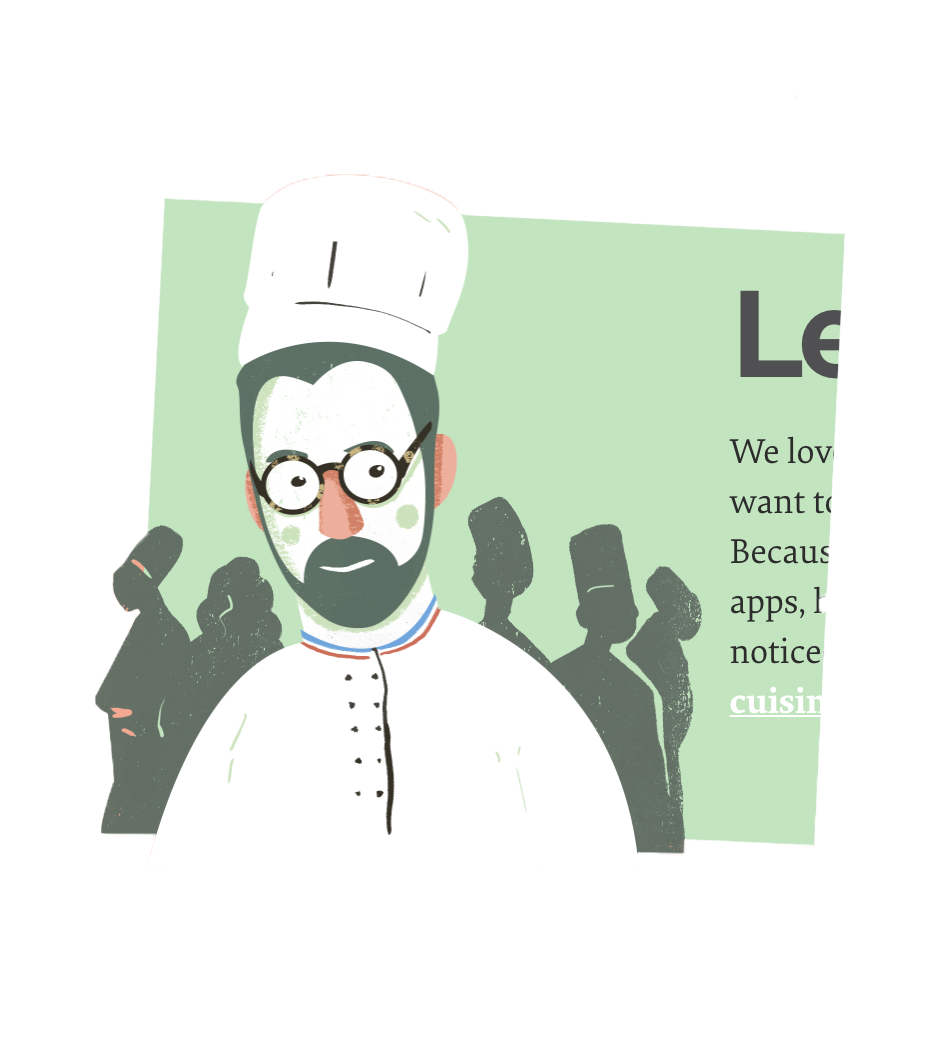
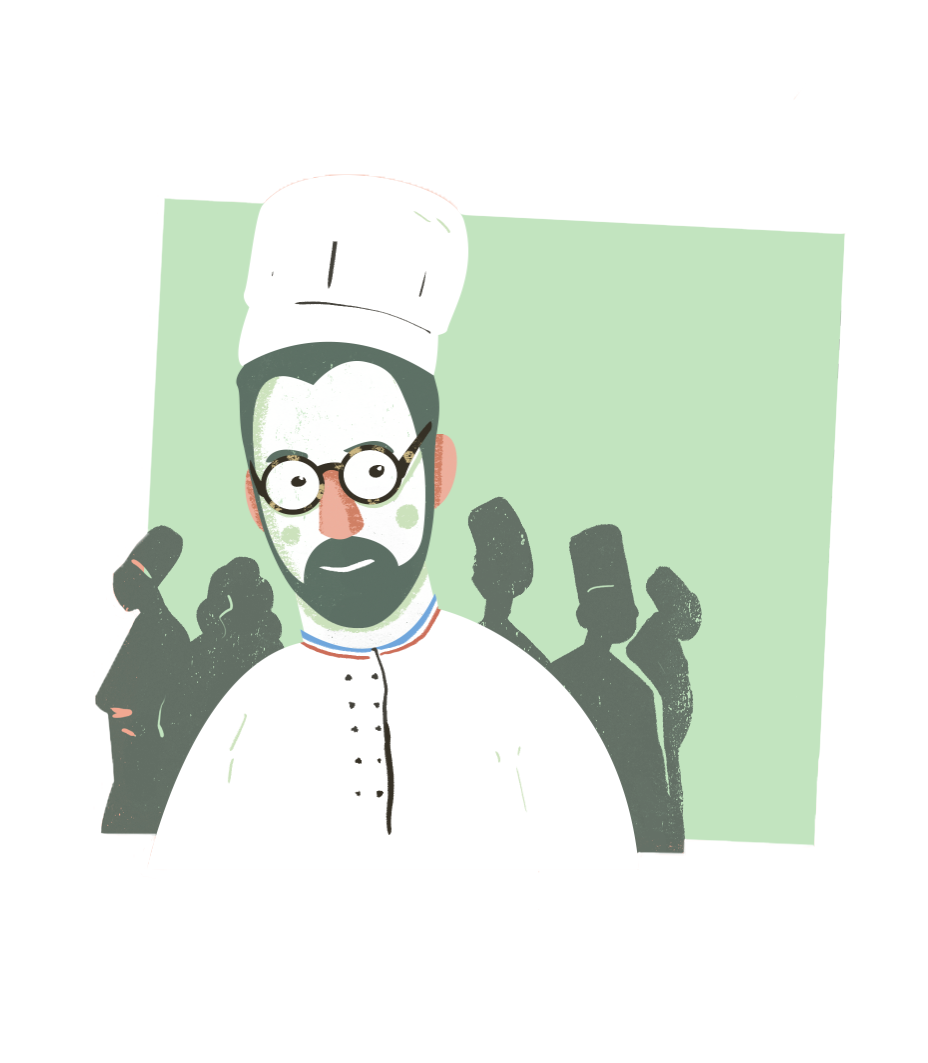
website replication
updates

diff --git a/index.html b/index.html
@@ -18,17 +18,57 @@
 </head>
 
 <body>
-  <section>
-	  <h1>Only the French can cook</h1>
-	  <h2>right?</h2>
-	  <p>Is that why <strong>Stéréosuper and its tight group of Frenchies</strong> are so good at whipping up awesome visual identities and designing kick-ass sites and apps? Lucky for you, Stéréosuper goes all American dream and opens an office in Brooklyn. <a href="#">Want to talk about it?</a></p>
+  <header class="page-header">
+  <a href="#">  
+  <img src="images/stereosuper-logo.png" alt="logo" class="logo">
+  <img src="images/frog.png" alt="frog" class="frog-icon">
+  </header>
+  <section class="page-intro">
+	  <h1 class="title">Only the<br> French can<br> cook</h1>
+	  <h2 class="title-remark">(right?)</h2>
+	  <div class="header-image">
+	  <img src="images/header.png" alt="frog-soup">
+	  </div>
+	  <p>Is that why <strong>Stéréosuper and its tight group of Frenchies</strong> are so good at whipping up awesome visual identities and designing kick-ass sites and apps? Lucky for you, Stéréosuper goes all American dream and opens an office in Brooklyn. <a href="#" class="about">Want to talk about it?</a></p>
   </section>
-  <section>
+  <section class="page-section">
+  	<article class="about">
+  	<img src="images/la-recipe.png" alt="recipe" class="recipe">
+    </article>
+    <article class="about">
+    <img src="images/ingredients.png" alt="ingredients" class="ingredients">
+    </article>
+    <article class="about">
+    <img src="images/la-way.png" alt="la-way" class="la-way">
+    </article>
+    <article class="about">
+    <p>All our dishes are homemade with the best locally grown organic products. No animal was ever harmed in our kitchen. We like gluten, though. Sorry. <a href="#">Watch French TV legend Maïté cook frog legs</a></p>
+    <img src="images/viola.png" alt="viola" class="viola">
+    </article>
+  <section class="page-section">
   	<p>#workwithfrenchies</p>
   	<p>FR / US </p>
   </section>
-  <section>
-  <p>All our dishes are homemade with the best locally grown organic products. No animal was ever harmed in our kitchen. We like gluten, though. Sorry. <a href="#"> Watch French TV legend Maïté cook frog legs</a></p>
+  <section class="reasons-why">
+  	<div class="cleafix">
+  	<article class="reason">
+  	<img src="images/reason-1.png" alt="reason1">
+    </article>
+    <article class="reason">
+    <img src="images/reason-2.png" alt="reason2">
+    </article>
+    <article class="reason">
+    <img src="images/reason-3.png" alt="reason3">
+    </article>
+    <article class="reason">
+    <img src="images/reason-4.png" alt="reason4">
+    </article>
+    </div>
+    </section>
+  <section class="page-section">
+  	  <h2 class="lets-talk">Let's talk</h2>
+  	  <p>All our dishes are homemade with the best locally grown organic products. No animal was ever harmed in our kitchen. We like gluten, though. Sorry. <a href="#"> Watch French TV legend Maïté cook frog legs</a></p>
+  <img src="images/chef.png" alt="chef" class="chef-image">
   </section>
 
   <script src="js/vendor/modernizr-3.6.0.min.js"></script>

diff --git a/css/main.css b/css/main.css
@@ -97,9 +97,111 @@ textarea {
    Author's custom styles
    ========================================================================== */
 
+/* Main Concent */
+
+html {
+        box-sizing: border-box;
+    }
+    *, *:before, *:after {
+        box-sizing: inherit;
+    }
+body {
+    background-color: #f2a891;
+    padding-top: 4em;
+}
+h1{
+    color: #505052;
+}
+h2{
+    color: #505052;
+}
+p {
+    color: #505052;
+    max-width: 750px;
+    margin-left: 50%;
+    font-size: 20px;
+}
+
+a {
+    text-decoration: none;
+    color: white;
+}
+/* Main Nav */
+
+.logo {
+    position: fixed;
+    top: -10%;
+    left: 2%;
+    max-width: 30%;
+    padding: 0;
+}
+.frog-icon {
+    position: fixed;
+    top: -1%;
+    right: 2%;
+    max-width: 15%;
+    padding: 0;
+}
+
+/* Intro Section */
+
+ .title {
+    position:absolute;
+    left: 0; 
+    width: 100%;
+    margin-left:50%;
+    font-size : 90px;
+    font-weight: bolder;
+    font-family: sans-serif; 
+    top: 200px; 
+ }
+ .title-remark {
+    position:absolute;
+    left: 0; 
+    width: 100%;
+    font-size: 20px;
+    font-family: sans-serif;
+    color: white;
+    margin-left: 58%;
+    top: 365px;
+ }
+.header-image { 
+   position: relative; 
+   width: 100%; 
+   z-index: -10;
+   margin-left: 5%;
+   }
 
 
+ /* About Section */
+.recipe {
+    max-width: 20%;
+    margin-left: 5%;
+}
+.ingredients {
+    max-width: 50%;
+    margin-left: 5%;
+}
+.la-way {
+    max-width: 50%;
+    margin-left: 5%;
+}
+.viola {
+    z-index: -10;
+    margin-left: 5%;
+    max-width: 50%;
+}
 
+/* Reasons Why Section */
+.reason-why {
+    position: relative;
+    margin-left: 5%;
+}
+/* Let's Talk Section */
+.chef-image {
+    margin-left: 50%;
+}
+/* Side Links */
 
 
 
